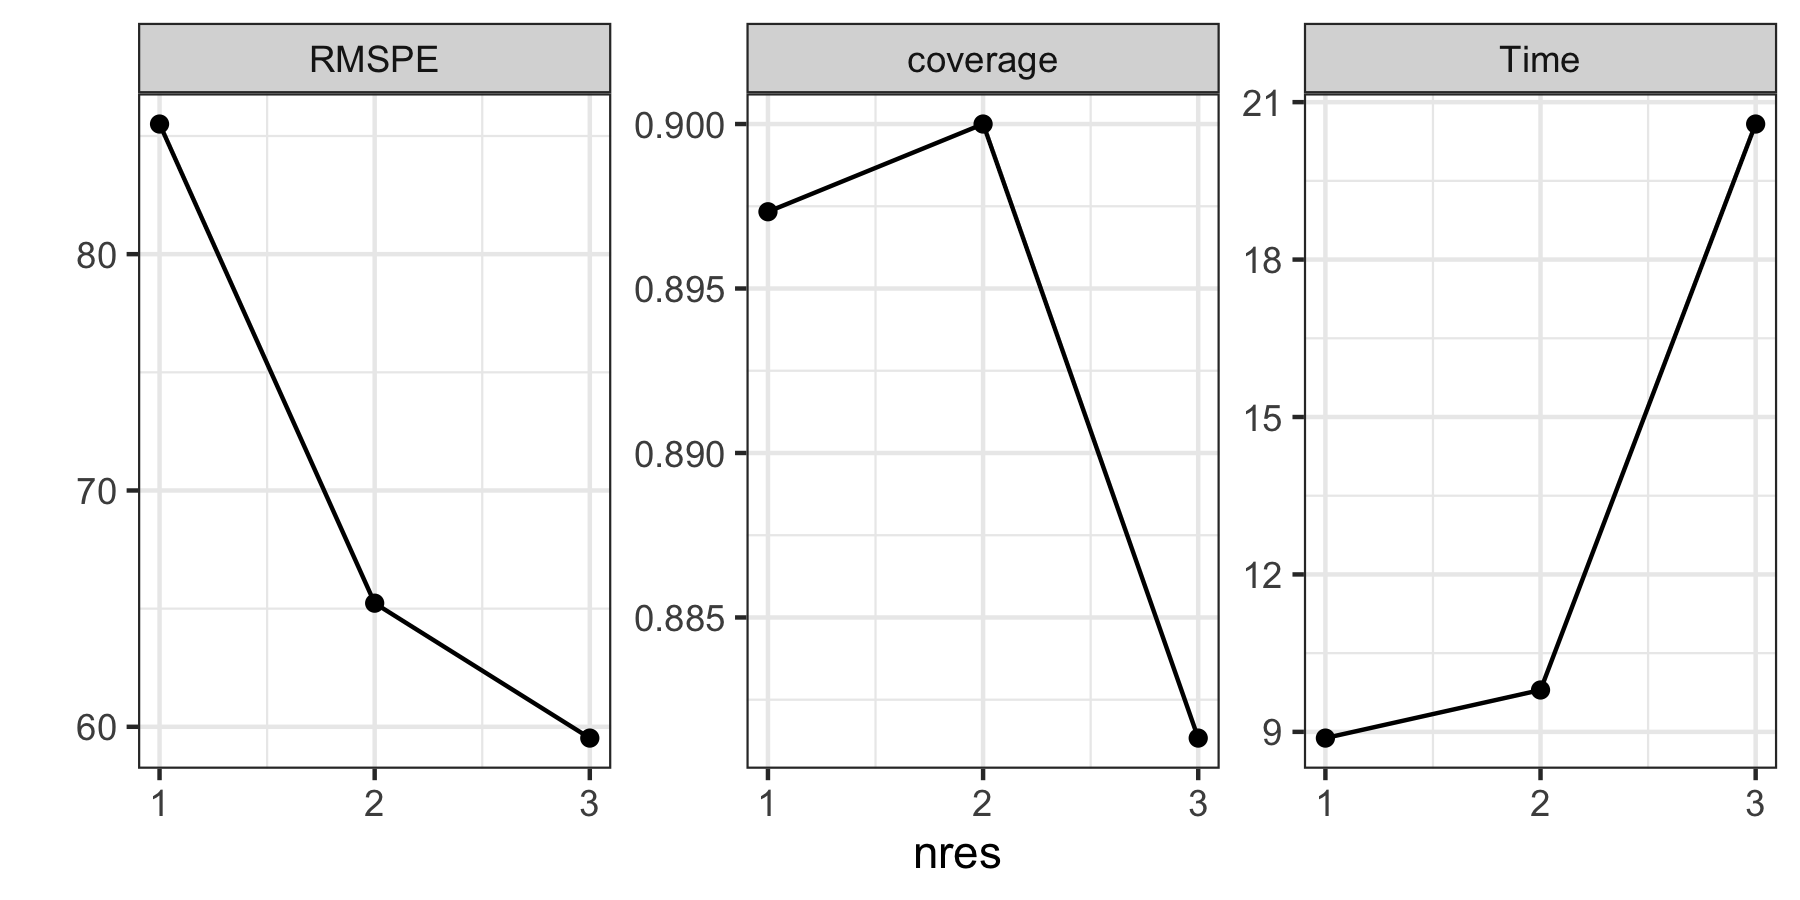
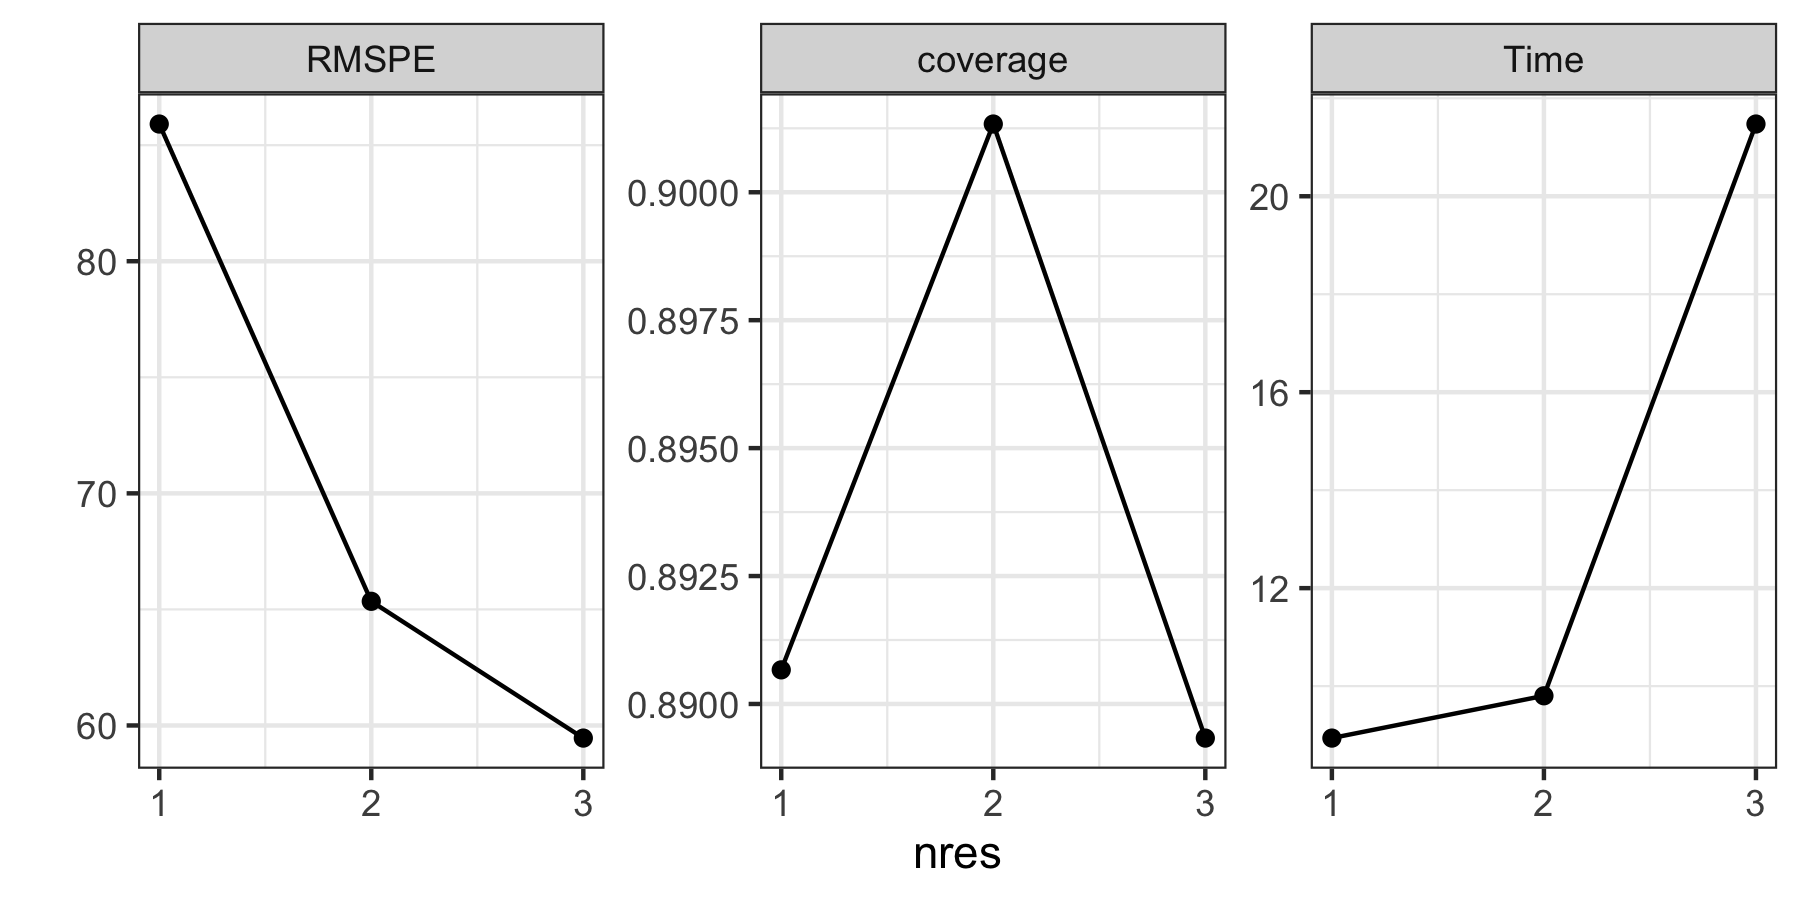
Further edits to README, and added set.seed() to example

diff --git a/README.md b/README.md
@@ -18,20 +18,21 @@ devtools::install_github("MattSainsbury-Dale/testarguments")
 Example
 ------------
 
-We demonstrate use **testarguments** by predicting with the package **FRK**. Note that the prediction algorithm tested by **testarguments** is arbitrary and user defined, and we use **FRK** only because I am familiar with it. First, load the required packages and data, and create training and testing data:
+We demonstrate use of **testarguments** by predicting with the package **FRK**. First, load the required packages for this example, and create training and testing data:
 
 ```r
 library("testarguments")
 library("FRK")
 library("sp")
 data("Poisson_simulated")
+RNGversion("3.6.0"); set.seed(1)
 n <- nrow(Poisson_simulated)
-train_id <- sample(1:n, round(n/2))
+train_id <- sample(1:n, round(n / 2))
 df_train <- Poisson_simulated[train_id, ]
 df_test  <- Poisson_simulated[-train_id, ]
 ```
 
-Define a wrapper function which uses `df_train` to predict over `df_test`. This will be passed into `test_arguments()` In this example, we wish to test values of `link` and `nres`, so we also include these as arguments. 
+Define a wrapper function which uses `df_train` to predict over `df_test`. This will be passed into `test_arguments()`. In this example, we wish to test values of `link` and `nres`, so we also include these as arguments. 
 
 ```r
 fun <- function(df_train, df_test, link, nres) {
@@ -65,28 +66,27 @@ diagnostic_fun <- function(df_test) {
 Compute the user-defined diagnostics over a range of arguments using `test_arguments()`. Here, we test the prediction algorithm with 1, 2, or 3 resolutions of basis functions, and using the log or square-root link function.
 
 ```r
-diagnostics <- test_arguments(fun, df_train, df_test, diagnostic_fun,
-                              arguments = list(link = c("log", "square-root"),
-                                               nres = 1:3))
+diagnostics_df <- test_arguments(fun, df_train, df_test, diagnostic_fun,
+                                 arguments = list(link = c("log", "square-root"),
+                                                  nres = 1:3))
 ```
 
 Visualise the performance across all combinations of the supplied arguments using `plot_diagnostics()`:
 
 ```r
-plot_diagnostics(diagnostics, c("nres", "link"))
+plot_diagnostics(diagnostics_df, c("nres", "link"))
 ```
 
 ![Predictive performance for all combinations of nres and link](/img/nres_link.png?raw=true)
 
 
-If we decide that the link function is not relevant, we can focus on only the number of resolutions by specifying `focused_args = "nres"`. By default, this averages out the arguments which are not of interest. 
+Using various aesthetics, `plot_diagnostics()` can visualise the performance of all combinations of up to 4 different arguments simultaneously. If we decide that the link function is not relevant, we can focus on only the number of resolutions by specifying `focused_args = "nres"`. By default, this averages out the arguments which are not of interest. 
 
 ```r
-plot_diagnostics(diagnostics, c("nres", "link"), focused_args = "nres")
+plot_diagnostics(diagnostics_df, c("nres", "link"), focused_args = "nres")
 ```
 
 ![Focusing on nres: levels of link have been averaged out](/img/nres.png?raw=true)
 
 
-Using various aesthetics, `plot_diagnostics()` can visualise the performance of all combinations of up to 4 different arguments simultaneously.
 
